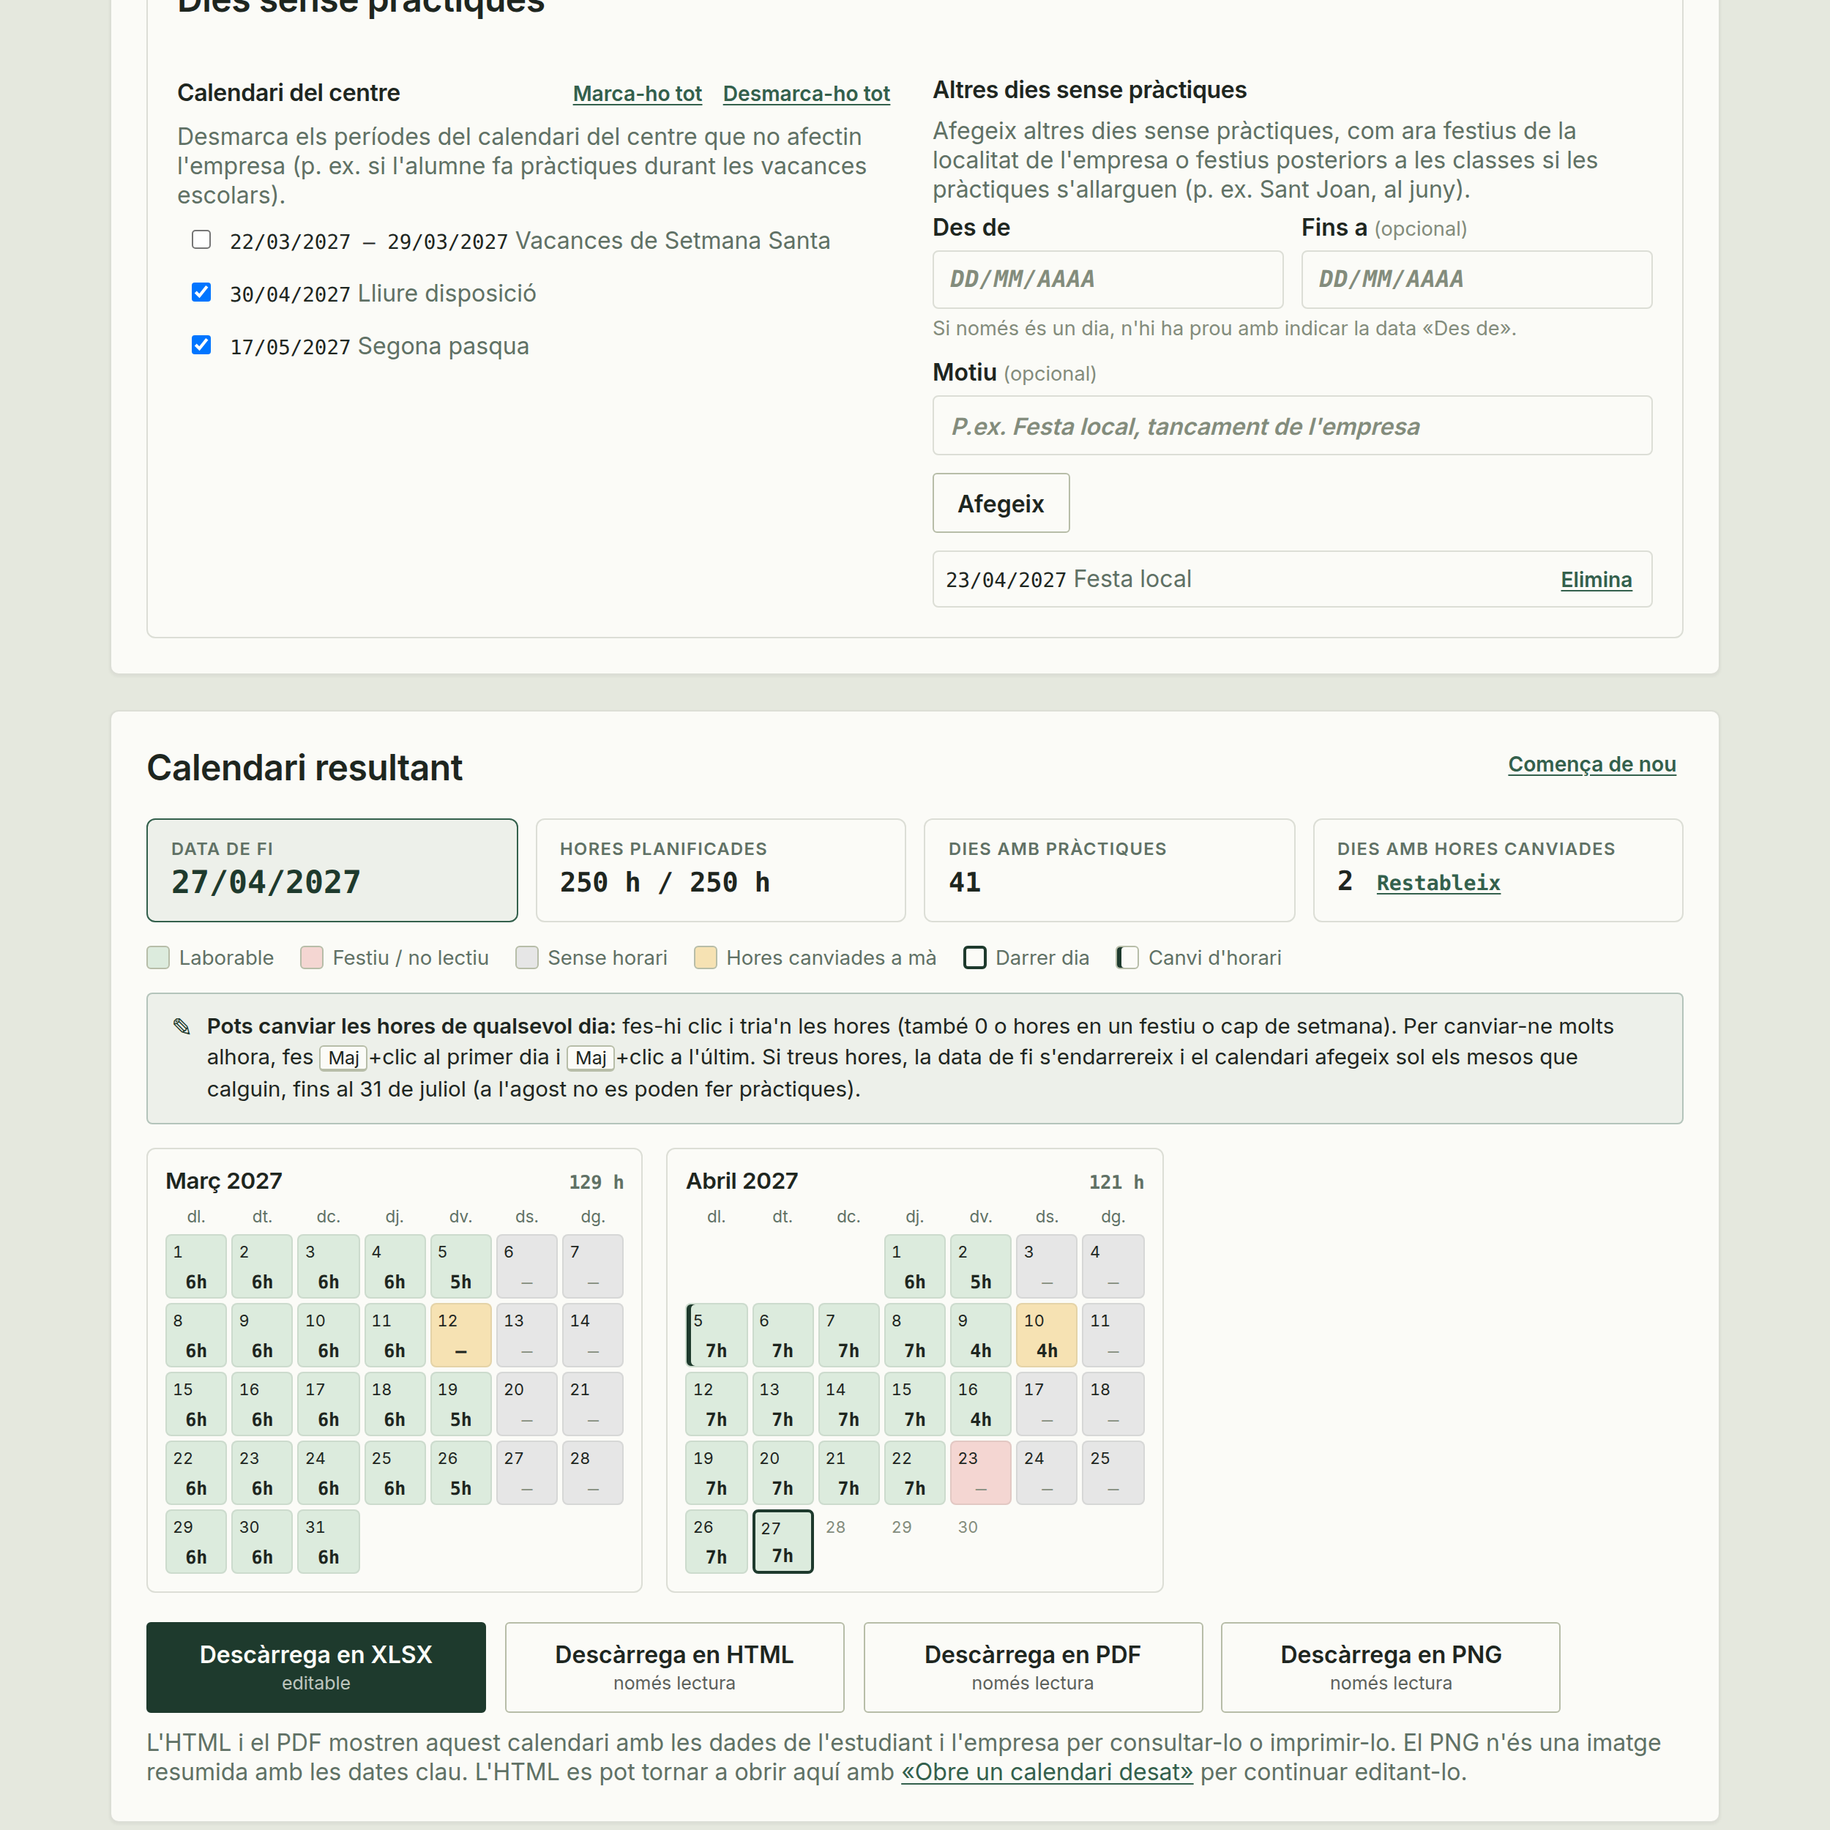
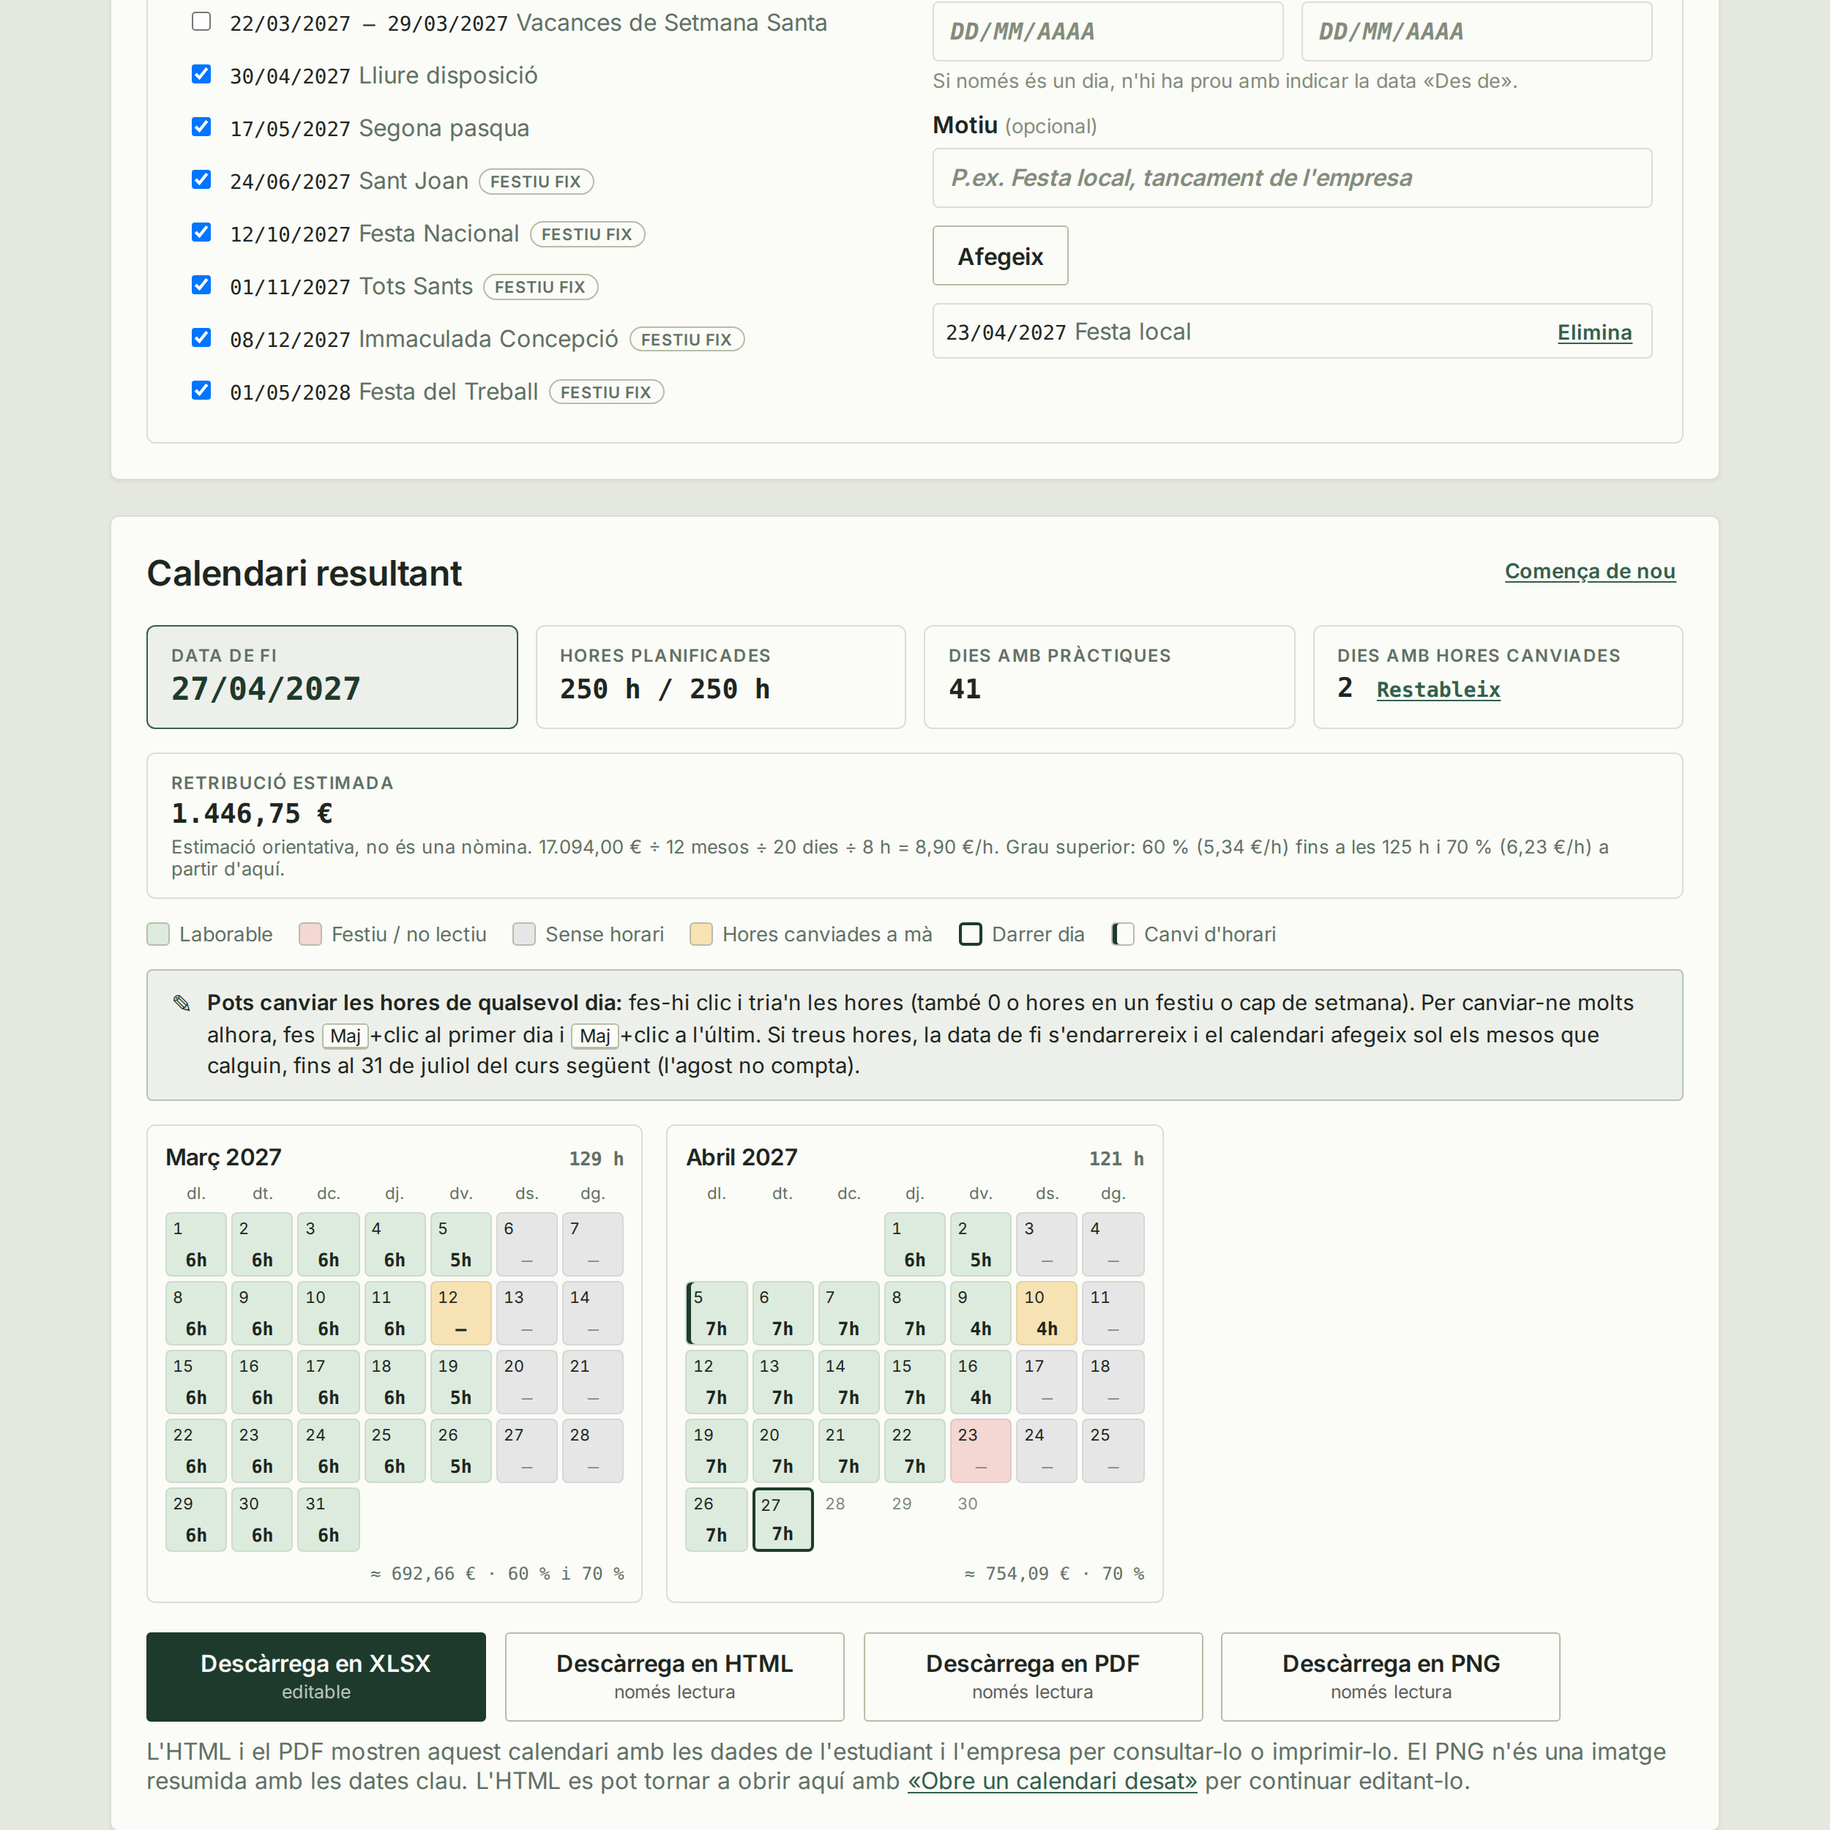
docs: retake the internship screenshots and describe the modalities
The three internship planner screenshots now show the Intensiva modality:
the modality, grade and annual SMI fields, the Saturday and August
options, and the estimated pay in the summary and under each month.
Both READMEs describe the General and Intensiva modalities, their
warnings and the Saturday option, and the closed August between two
school years; the screenshot index matches the new captures.

Changed region(s): [[0.0624, 0.0, 0.936, 1.0], [0.0936, 0.0, 0.468, 0.2184]]

diff --git a/README.md b/README.md
@@ -91,15 +91,19 @@ La secció `/practiques` és independent de la planificació de mòduls i calcul
 
 ### 1. Configura les pràctiques
 
-Indica la data d'inici, les hores totals (amb minuts) i les hores de cada dia de la setmana. Si el conveni té períodes amb horaris diferents (p. ex. jornada intensiva a l'estiu), afegeix un nou període i indica a partir de quin dia s'aplica. Opcionalment, afegeix les dades de l'estudiant i de l'empresa, que apareixen a la capçalera dels fitxers exportats (XLSX, HTML i PDF). El formulari es conserva al navegador entre visites.
+Tria la modalitat del conveni i indica la data d'inici, les hores totals (amb minuts) i les hores de cada dia de la setmana. Si el conveni té períodes amb horaris diferents (p. ex. jornada intensiva a l'estiu), afegeix un nou període i indica a partir de quin dia s'aplica. Opcionalment, afegeix les dades de l'estudiant i de l'empresa, que apareixen a la capçalera dels fitxers exportats (XLSX, HTML i PDF). El formulari es conserva al navegador entre visites.
 
-![Formulari del planificador d'hores de pràctiques obert des d'un calendari desat, amb l'enllaç «Obre un calendari desat»](docs/screenshots/tempo-practiques-step-1-formulari.png)
+- **General:** les pràctiques acaben dins del curs en què comencen. Si algun dia té més de 4 h, un avís recorda que cal un tipus d'acord intensiu, i si el total passa de 400 h, un altre recorda que a 1r curs la modalitat general no en permet més (no surt si el camp «Grup» conté un «2», de segon curs). Cap dels dos avisos surt a les exportacions.
+- **Intensiva:** les pràctiques poden continuar el curs següent, fins al 31 de juliol. Demana el grau del cicle i l'SMI per estimar la [retribució](#retribució-estimada-modalitat-intensiva) de cada mes.
+- **«Inclou els dissabtes»**, a l'horari setmanal i desmarcada per defecte, afegeix el dissabte a l'horari de cada període, en totes dues modalitats.
+
+![Formulari del planificador d'hores de pràctiques obert des d'un calendari desat, en modalitat intensiva, amb el grau del cicle, l'SMI anual i l'enllaç «Obre un calendari desat»](docs/screenshots/tempo-practiques-step-1-formulari.png)
 
 ### 2. Revisa els dies sense pràctiques i el calendari
 
 Els períodes del calendari del centre surten marcats i es poden desmarcar si no afecten l'empresa (p. ex. pràctiques durant les vacances escolars). Els festius fixos (els que l'administració marca com a repetits cada any, p. ex. l'1 de maig) hi surten un cop per cada any que abasten les pràctiques, també en cursos encara no configurats, i també es poden desmarcar un per un. Només hi surten quan cauen en un dia laborable i no queden dins d'un altre període marcat o afegit: si cauen en cap de setmana o dins de les vacances de Nadal, no cal llistar-los a part. També s'hi poden afegir altres dies, com festius locals de l'empresa o festius posteriors a les classes. Si les pràctiques van més enllà dels dies no lectius configurats al calendari del centre, un avís en aquesta mateixa secció recorda afegir-hi els festius posteriors que canvien de data cada any (els fixos ja hi són). El calendari es recalcula en directe i mostra la data de fi, les hores planificades i els dies amb pràctiques; el darrer dia només rep les hores que falten. Quan hi ha diversos períodes, el primer dia de cadascun queda marcat al calendari.
 
-![Dies sense pràctiques, calendari resultant amb la data de fi, botons de descàrrega en XLSX, HTML, PDF i PNG i la nota que explica cada format i que l'HTML es pot tornar a obrir](docs/screenshots/tempo-practiques-step-2-calendari.png)
+![Dies sense pràctiques, calendari resultant amb la data de fi i la retribució estimada (total i per mes), botons de descàrrega en XLSX, HTML, PDF i PNG i la nota que explica cada format i que l'HTML es pot tornar a obrir](docs/screenshots/tempo-practiques-step-2-calendari.png)
 
 ### 3. Ajusta les hores d'un dia o de diversos dies
 
@@ -107,7 +111,7 @@ En fer clic a qualsevol dia se'n poden canviar les hores, fins i tot posar-hi 0 
 
 Per canviar les hores de molts dies alhora (p. ex. del 20 d'octubre al 10 de novembre), es fa Maj+clic al primer dia (queda marcat sense obrir cap finestra) i Maj+clic a l'últim, o s'obre «Aplica-ho a més dies» a la finestra del dia. Aquesta opció, plegada per defecte, demana un interval de dates i els dies de la setmana afectats (de sortida, els que tenen hores a l'horari), mostra quants dies canviaran i els ressalta al calendari. Amb Maj+clic no es mostren els dies de la setmana: el canvi s'aplica als dies de l'interval que tenen hores a l'horari. Els dies sense pràctiques de l'interval (festius i períodes no lectius) no es toquen, tret que es marqui «Inclou també els dies sense pràctiques», que apareix quan l'interval en conté (p. ex. per posar hores durant unes vacances que l'empresa no fa). Cada dia queda desat com un canvi individual, així que es pot retocar o restablir com qualsevol altre.
 
-Per defecte, a l'agost no es poden fer pràctiques, així que el calendari no passa mai del 31 de juliol del curs en què comencen. Si les hores no hi caben, l'aplicació avisa i mostra les hores que falten, que s'hauran de fer amb un nou conveni el curs vinent. L'opció «Inclou l'agost», a l'horari setmanal, hi permet hores i porta el límit fins al 31 d'agost.
+Per defecte, a l'agost no es poden fer pràctiques, així que el calendari no passa mai del 31 de juliol del curs en què comencen (en la modalitat intensiva, del curs següent, i l'agost entremig queda tancat). Si les hores no hi caben, l'aplicació avisa i mostra les hores que falten, que s'hauran de fer amb un nou conveni el curs vinent. L'opció «Inclou l'agost», a l'horari setmanal, hi permet hores i porta el límit fins al 31 d'agost.
 
 ![Canvi de les hores d'una setmana sencera triada amb Maj+clic, amb els dies afectats ressaltats al calendari](docs/screenshots/tempo-practiques-step-3-editor-dia.png)
 

diff --git a/README.en.md b/README.en.md
@@ -91,15 +91,19 @@ The `/practiques` section is independent from module planning and works out when
 
 ### 1. Set Up The Internship
 
-Enter the start date, total hours (minutes supported) and the hours for each weekday. If the agreement has periods with different schedules (e.g. shorter summer hours), add a new period and set the date it applies from. Optionally, add the student and company details shown in the header of the exported files (XLSX, HTML and PDF). The form is kept in the browser between visits.
+Choose the agreement's modality and enter the start date, total hours (minutes supported) and the hours for each weekday. If the agreement has periods with different schedules (e.g. shorter summer hours), add a new period and set the date it applies from. Optionally, add the student and company details shown in the header of the exported files (XLSX, HTML and PDF). The form is kept in the browser between visits.
 
-![Internship hours planner form opened from a saved calendar, with the "Obre un calendari desat" link](docs/screenshots/tempo-practiques-step-1-formulari.png)
+- **General:** the internship ends within the school year it starts in. If any day has more than 4 h, a notice reminds that an intensive-type agreement is needed, and if the total goes over 400 h, another reminds that in first year the general modality allows no more (it does not appear when the "Grup" field contains a "2", for second year). Neither notice appears in the exports.
+- **Intensiva:** the internship can continue into the next school year, up to 31 July. It asks for the training cycle's grade and the SMI to estimate each month's [pay](#estimated-pay-intensive-modality).
+- **"Inclou els dissabtes"**, in the weekly schedule and off by default, adds Saturday to every period's schedule, in both modalities.
+
+![Internship hours planner form opened from a saved calendar, in the intensive modality, with the training cycle's grade, the annual SMI and the "Obre un calendari desat" link](docs/screenshots/tempo-practiques-step-1-formulari.png)
 
 ### 2. Review Days Without Internship And The Calendar
 
 The school calendar's periods are pre-selected and can be unticked when they do not affect the company (e.g. an internship that runs through school holidays). Fixed holidays (those the admin marks as repeating every year, e.g. 1 May) are listed once for each year the internship spans, including academic years not configured yet, and can also be unticked one by one. They are only listed when they fall on a working day and are not inside another selected or added period: one on a weekend or inside the Christmas break does not need its own entry. Other days can be added too, such as the company's local holidays or holidays after classes end. If the internship runs past the non-teaching days configured in the school calendar, a warning in this same section reminds users to add the later holidays whose date changes every year (fixed ones are already included). The calendar recalculates live and shows the end date, planned hours and internship days; the last day only receives the hours still needed. When there are several periods, the first day of each one is marked on the calendar.
 
-![Days without internship, the resulting calendar with its end date, the XLSX, HTML, PDF and PNG download buttons and the note that explains each format and that the HTML can be opened again](docs/screenshots/tempo-practiques-step-2-calendari.png)
+![Days without internship, the resulting calendar with its end date and the estimated pay (total and per month), the XLSX, HTML, PDF and PNG download buttons and the note that explains each format and that the HTML can be opened again](docs/screenshots/tempo-practiques-step-2-calendari.png)
 
 ### 3. Adjust The Hours Of One Or Several Days
 
@@ -107,7 +111,7 @@ Clicking any day changes its hours, including setting it to 0 or adding hours on
 
 To change many days at once (e.g. from 20 October to 10 November), Shift+click the first day (it is marked without opening any dialog) and Shift+click the last one, or open "Aplica-ho a més dies" in the day's dialog. This option, folded away by default, asks for a date range and the weekdays it applies to (by default, those with hours in the schedule), shows how many days will change and highlights them on the calendar. With Shift+click the weekdays are not shown: the change applies to the days in the range that have hours in the schedule. Days without internship inside the range (holidays and non-teaching periods) are left alone unless "Inclou també els dies sense pràctiques" is ticked; that option appears when the range contains such days (e.g. to schedule hours during a break the company doesn't take). Each day is stored as an individual change, so it can be adjusted or reset like any other.
 
-By default internships cannot run in August, so the calendar never goes past 31 July of the school year it starts in. If the hours do not fit, the app warns and shows the hours still pending, which need a new agreement next school year. The "Inclou l'agost" option, in the weekly schedule, allows hours in August and moves the limit to 31 August.
+By default internships cannot run in August, so the calendar never goes past 31 July of the school year it starts in (in the intensive modality, of the next school year, with the August in between closed). If the hours do not fit, the app warns and shows the hours still pending, which need a new agreement next school year. The "Inclou l'agost" option, in the weekly schedule, allows hours in August and moves the limit to 31 August.
 
 ![Changing the hours of a whole week picked with Shift+click, with the affected days highlighted on the calendar](docs/screenshots/tempo-practiques-step-3-editor-dia.png)
 

diff --git a/docs/screenshots/README.md b/docs/screenshots/README.md
@@ -19,8 +19,8 @@ The files in this folder document the two public tools. For the curriculum plann
 | `tempo-step-1-parallel.png` | Step 1: configure two parallel blocks | Supporting advanced-mode example |
 | `tempo-step-2-parallel.png` | Step 2: distribute RAs across parallel blocks | Supporting advanced-mode example |
 | `tempo-step-3-spreadsheet_2.png` | Result: secondary workbook view | Kept for detailed documentation |
-| `tempo-practiques-step-1-formulari.png` | Internship planner: a saved calendar just opened with «Obre un calendari desat» (start date, total hours and a weekly schedule split into two periods) | Internship walkthrough |
-| `tempo-practiques-step-2-calendari.png` | Internship planner: days without internship, the resulting calendar, the XLSX, HTML, PDF and PNG download buttons and the note on what each read-only format is for and on reopening the HTML | Internship walkthrough |
+| `tempo-practiques-step-1-formulari.png` | Internship planner: a saved calendar just opened with «Obre un calendari desat», in the Intensiva modality (grade, annual SMI, start date, total hours, the Saturday and August options and a weekly schedule split into two periods) | Internship walkthrough |
+| `tempo-practiques-step-2-calendari.png` | Internship planner: days without internship, the resulting calendar with the estimated pay (total and per month), the XLSX, HTML, PDF and PNG download buttons and the note on what each read-only format is for and on reopening the HTML | Internship walkthrough |
 | `tempo-practiques-step-3-editor-dia.png` | Internship planner: changing the hours of a range of days picked with Shift+click | Internship walkthrough |
 
 `step-3` describes the exported result, not a third screen in the application: the teacher interface itself has two steps.
